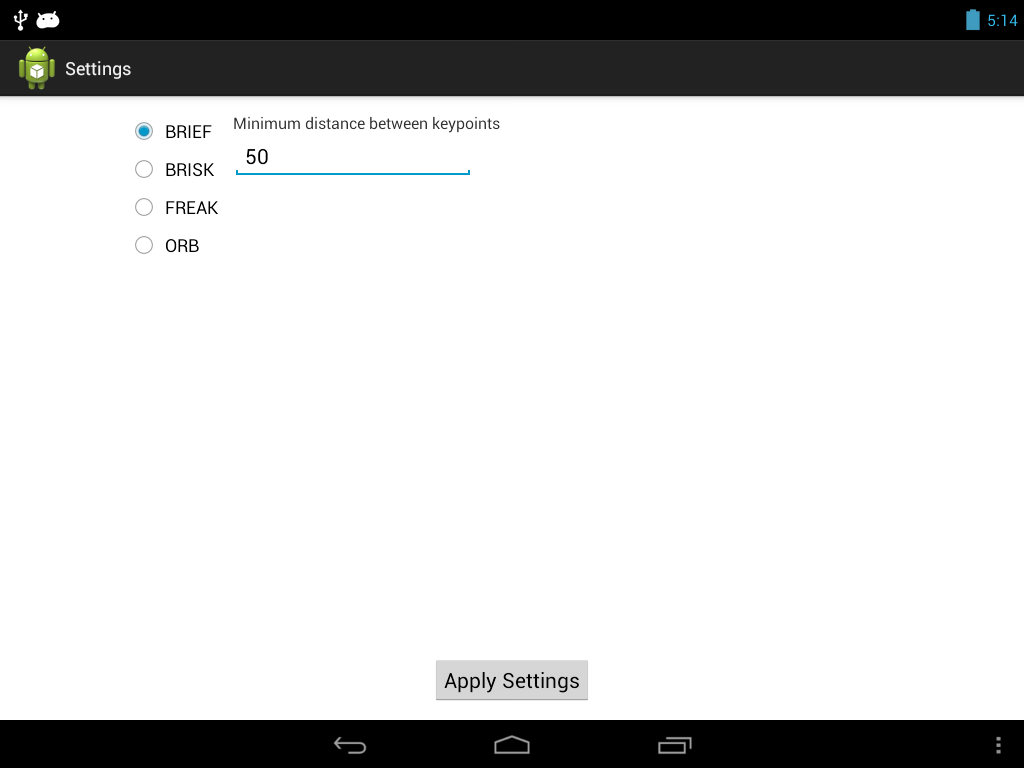
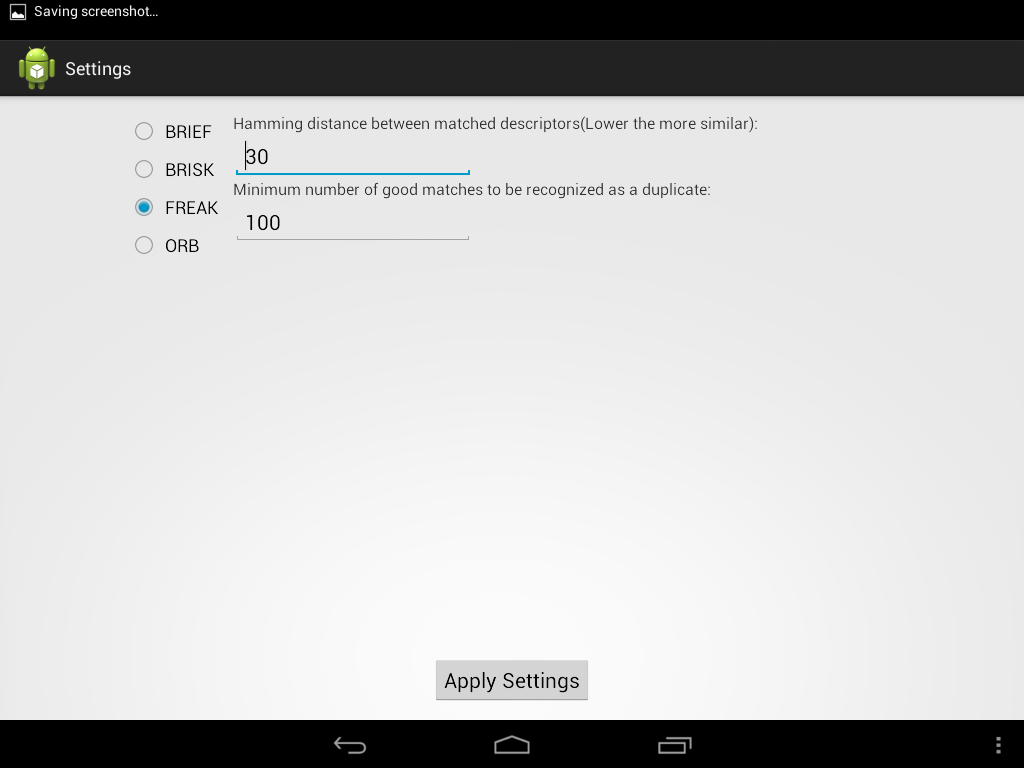
hamming distance updated
final update

diff --git a/imageComparator/src/com/torcellite/imageComparator/MainActivity.java b/imageComparator/src/com/torcellite/imageComparator/MainActivity.java
@@ -14,8 +14,10 @@ import org.opencv.android.LoaderCallbackInterface;
 import org.opencv.android.OpenCVLoader;
 import org.opencv.android.Utils;
 import org.opencv.core.Mat;
+import org.opencv.core.MatOfByte;
 import org.opencv.core.MatOfDMatch;
 import org.opencv.core.MatOfKeyPoint;
+import org.opencv.core.Scalar;
 import org.opencv.features2d.DMatch;
 import org.opencv.features2d.DescriptorExtractor;
 import org.opencv.features2d.DescriptorMatcher;
@@ -48,21 +50,22 @@ import android.widget.Toast;
 
 public class MainActivity extends Activity {
 	private static final String TAG = "OCVSample::Activity";
-	Bitmap bmp, yourSelectedImage, bmpimg1, bmpimg2;
-	ImageView iv1, iv2;
-	TextView tv;
-	String path1, path2;
-	String text, selectedPath;
-	Button start;
-	int imgNo = 0;
-	Uri selectedImage;
-	InputStream imageStream;
-	long startTime, endTime;
+	private static Bitmap bmp, yourSelectedImage, bmpimg1, bmpimg2;
+	private static ImageView iv1, iv2;
+	private static TextView tv;
+	private static String path1, path2;
+	private static String text;
+	private static Button start;
+	private static int imgNo = 0;
+	private static Uri selectedImage;
+	private static InputStream imageStream;
+	private static long startTime, endTime;
 	private static final int SELECT_PHOTO = 100;
 
-	private int descriptor = DescriptorExtractor.ORB;
-	String descriptorType;
-	private int min_dist = 500;
+	private static int descriptor = DescriptorExtractor.ORB;
+	private static String descriptorType;
+	private static int min_dist = 80;
+	private static int min_matches = 100;
 
 	public MainActivity() {
 		Log.i(TAG, "Instantiated new " + this.getClass());
@@ -111,6 +114,7 @@ public class MainActivity extends Activity {
 			Intent call = new Intent(MainActivity.this, Settings.class);
 			call.putExtra("descriptor", descriptor);
 			call.putExtra("min_dist", min_dist);
+			call.putExtra("min_matches", min_matches);
 			call.addFlags(Intent.FLAG_ACTIVITY_REORDER_TO_FRONT);
 			call.addFlags(Intent.FLAG_ACTIVITY_SINGLE_TOP);
 			startActivity(call);
@@ -133,7 +137,7 @@ public class MainActivity extends Activity {
 		else if(descriptor == DescriptorExtractor.SURF)
 			descriptorType = "SURF";
 		System.out.println(descriptorType);
-		tv.setText("Select the two images to be compared.\n"+"DescriptorExtractor:"+descriptorType+" Minimum distance between keypoints:"+min_dist);
+		tv.setText("Select the two images to be compared.\n"+"DescriptorExtractor:"+descriptorType+"\nHamming distance between descriptors:"+min_dist+"\nMinimum number of good matches:"+min_matches);
 		iv1.setOnClickListener(new View.OnClickListener() {
 
 			@Override
@@ -163,7 +167,7 @@ public class MainActivity extends Activity {
 			public void onClick(View arg0) {
 				// TODO Auto-generated method stub
 				if (bmpimg1 != null && bmpimg2 != null) {
-					new asyncTask().execute();
+					new asyncTask(MainActivity.this).execute();
 					startTime = System.currentTimeMillis();
 					System.out.println(descriptor + " " + min_dist);
 				} else
@@ -179,6 +183,7 @@ public class MainActivity extends Activity {
 		super.onNewIntent(newIntent);
 		min_dist = newIntent.getExtras().getInt("min_dist");
 		descriptor = newIntent.getExtras().getInt("descriptor");
+		min_matches = newIntent.getExtras().getInt("min_matches");
 		run();
 	}
 
@@ -226,23 +231,25 @@ public class MainActivity extends Activity {
 				mLoaderCallback);
 	}
 
-	public class asyncTask extends AsyncTask<Void, Void, Void> {
-		Mat img1, img2, descriptors, dupDescriptors;
-		FeatureDetector detector;
-		DescriptorExtractor DescExtractor;
-		DescriptorMatcher matcher;
-		MatOfKeyPoint keypoints, dupKeypoints;
-		MatOfDMatch matches, matches_final_mat;
-		TextView tv;
-		ProgressDialog pd;
-		boolean isDuplicate = false;
-
-		// int m = 0, d = 0, dd = 0, pos = 0;
-		// String M, D, DD;
+	public static class asyncTask extends AsyncTask<Void, Void, Void> {
+		private static Mat img1, img2, descriptors, dupDescriptors;
+		private static FeatureDetector detector;
+		private static DescriptorExtractor DescExtractor;
+		private static DescriptorMatcher matcher;
+		private static MatOfKeyPoint keypoints, dupKeypoints;
+		private static MatOfDMatch matches, matches_final_mat;
+		private static ProgressDialog pd;
+		private static boolean isDuplicate = false;
+		private MainActivity asyncTaskContext=null;
+		private static Scalar RED = new Scalar(255,0,0);
+		private static Scalar GREEN = new Scalar(0,255,0);
+		public asyncTask(MainActivity context)
+		{
+			asyncTaskContext=context;
+		}
 		@Override
 		protected void onPreExecute() {
-			tv = (TextView) MainActivity.this.findViewById(R.id.tv);
-			pd = new ProgressDialog(MainActivity.this);
+			pd = new ProgressDialog(asyncTaskContext);
 			pd.setIndeterminate(true);
 			pd.setCancelable(true);
 			pd.setCanceledOnTouchOutside(false);
@@ -261,15 +268,17 @@ public class MainActivity extends Activity {
 		protected void onPostExecute(Void result) {
 			try {
 				Mat img3 = new Mat();
+				MatOfByte drawnMatches = new MatOfByte();
 				Features2d.drawMatches(img1, keypoints, img2, dupKeypoints,
-						matches_final_mat, img3);
+						matches_final_mat, img3, GREEN, RED,  drawnMatches, Features2d.NOT_DRAW_SINGLE_POINTS);
 				bmp = Bitmap.createBitmap(img3.cols(), img3.rows(),
 						Bitmap.Config.ARGB_8888);
 				Imgproc.cvtColor(img3, img3, Imgproc.COLOR_BGR2RGB);
 				Utils.matToBitmap(img3, bmp);
 				List<DMatch> finalMatchesList = matches_final_mat.toList();
+				final int matchesFound=finalMatchesList.size();
 				endTime = System.currentTimeMillis();
-				if (finalMatchesList.size() > min_dist)// dev discretion for
+				if (finalMatchesList.size() > min_matches)// dev discretion for
 														// number of matches to
 														// be found for an image
 														// to be judged as
@@ -287,10 +296,10 @@ public class MainActivity extends Activity {
 				}
 				pd.dismiss();
 				final AlertDialog.Builder alertDialog = new AlertDialog.Builder(
-						MainActivity.this);
+						asyncTaskContext);
 				alertDialog.setTitle("Result");
 				alertDialog.setCancelable(false);
-				LayoutInflater factory = LayoutInflater.from(MainActivity.this);
+				LayoutInflater factory = LayoutInflater.from(asyncTaskContext);
 				final View view = factory.inflate(R.layout.image_view, null);
 				ImageView matchedImages = (ImageView) view
 						.findViewById(R.id.finalImage);
@@ -318,8 +327,9 @@ public class MainActivity extends Activity {
 									bw = new BufferedWriter(fw);
 									bw.write("Algorithm used: "
 											+ descriptorType
-											+ "\nMinimum distance between keypoints: "
-											+ min_dist + "\n" + path1
+											+ "\nHamming distance: "
+											+ min_dist + "\nMinimum good matches: "+min_matches
+											+"\nMatches found: "+matchesFound+"\nTime elapsed: "+(endTime-startTime)+"seconds\n"+ path1
 											+ " was compared to " + path2
 											+ "\n" + "Is actual duplicate: "
 											+ shouldBeDuplicate.isChecked()
@@ -327,7 +337,7 @@ public class MainActivity extends Activity {
 											+ isDuplicate + "\n");
 									bw.close();
 									Toast.makeText(
-											MainActivity.this,
+											asyncTaskContext,
 											"Logs updated.\nLog location: "
 													+ Environment
 															.getExternalStorageDirectory()
@@ -363,7 +373,7 @@ public class MainActivity extends Activity {
 												+ isDuplicate + "\n");
 										bw.close();
 										Toast.makeText(
-												MainActivity.this,
+												asyncTaskContext,
 												"Logs updated.\nLog location: "
 														+ Environment
 																.getExternalStorageDirectory()
@@ -381,7 +391,7 @@ public class MainActivity extends Activity {
 				alertDialog.show();
 			} catch (Exception e) {
 				e.printStackTrace();
-				Toast.makeText(MainActivity.this, e.toString(),
+				Toast.makeText(asyncTaskContext, e.toString(),
 						Toast.LENGTH_LONG).show();
 			}
 		}
@@ -420,11 +430,10 @@ public class MainActivity extends Activity {
 				matcher.match(descriptors, dupDescriptors, matches);
 				Log.d("LOG!", "Matches Size " + matches.size());
 				// New method of finding best matches
-				int DIST_LIMIT = 30;// minimum
 				List<DMatch> matchesList = matches.toList();
 				List<DMatch> matches_final = new ArrayList<DMatch>();
 				for (int i = 0; i < matchesList.size(); i++) {
-					if (matchesList.get(i).distance <= DIST_LIMIT) {
+					if (matchesList.get(i).distance <= min_dist) {
 						matches_final.add(matches.toList().get(i));
 					}
 				}

diff --git a/imageComparator/src/com/torcellite/imageComparator/Settings.java b/imageComparator/src/com/torcellite/imageComparator/Settings.java
@@ -13,11 +13,12 @@ import android.widget.RadioGroup;
 
 public class Settings extends Activity {
 
-	RadioGroup descTypes;
-	RadioButton brief, brisk, freak, orb, sift, surf;
-	Button apply;
-	EditText num;
-
+	@SuppressWarnings("unused")
+	private static RadioGroup descTypes;
+	private static RadioButton brief, brisk, freak, orb;
+	private static Button apply;
+	private static EditText DIST_LIMIT, MIN_MATCHES;
+	private static int descriptor, min_dist, min_matches;
 	@Override
 	protected void onCreate(Bundle savedInstanceState) {
 		super.onCreate(savedInstanceState);
@@ -28,14 +29,16 @@ public class Settings extends Activity {
 		freak = (RadioButton) findViewById(R.id.radio2);
 		orb = (RadioButton) findViewById(R.id.radio3);
 		apply = (Button) findViewById(R.id.button1);
-		num = (EditText) findViewById(R.id.editText1);
-		num.setText("500");
+		DIST_LIMIT = (EditText) findViewById(R.id.editText1);
+		MIN_MATCHES = (EditText) findViewById(R.id.editText2);
+		MIN_MATCHES.setText("100");
+		DIST_LIMIT.setText("80");
 		apply.setOnClickListener(new View.OnClickListener() {
 
 			@Override
 			public void onClick(View v) {
 				// TODO Auto-generated method stub
-				int descriptor = 0, min_dist = 500;
+				int descriptor = 0, min_dist = 80, min_matches=100;
 				if (brief.isChecked())
 					descriptor = DescriptorExtractor.BRIEF;
 				else if (brisk.isChecked())
@@ -45,7 +48,7 @@ public class Settings extends Activity {
 				else if (orb.isChecked())
 					descriptor = DescriptorExtractor.ORB;
 				try {
-					min_dist = Integer.parseInt(num.getText().toString());
+					min_dist = Integer.parseInt(DIST_LIMIT.getText().toString());
 				} catch (Exception e) {
 					e.printStackTrace();
 					min_dist = 500;
@@ -55,6 +58,7 @@ public class Settings extends Activity {
 				call.addFlags(Intent.FLAG_ACTIVITY_SINGLE_TOP);
 				call.putExtra("descriptor", descriptor);
 				call.putExtra("min_dist", min_dist);
+				call.putExtra("min_matches", min_matches);
 				startActivity(call);
 			}
 		});
@@ -63,9 +67,10 @@ public class Settings extends Activity {
 	@Override
 	protected void onNewIntent(Intent newIntent) {
 		super.onNewIntent(newIntent);
-		int descriptor = newIntent.getExtras().getInt("descriptor");
-		int min_dist = newIntent.getExtras().getInt("min_dist");
-		num.setText(min_dist + "");
+		descriptor = newIntent.getExtras().getInt("descriptor");
+		min_dist = newIntent.getExtras().getInt("min_dist");
+		min_matches = newIntent.getExtras().getInt("min_matches");
+		DIST_LIMIT.setText(min_dist + "");
 		switch (descriptor) {
 		case 3:
 			orb.setChecked(true);
@@ -85,7 +90,6 @@ public class Settings extends Activity {
 			@Override
 			public void onClick(View v) {
 				// TODO Auto-generated method stub
-				int descriptor = 0, min_dist = 500;
 				if (brief.isChecked())
 					descriptor = DescriptorExtractor.BRIEF;
 				else if (brisk.isChecked())
@@ -95,15 +99,18 @@ public class Settings extends Activity {
 				else if (orb.isChecked())
 					descriptor = DescriptorExtractor.ORB;
 				try {
-					min_dist = Integer.parseInt(num.getText().toString());
+					min_dist = Integer.parseInt(DIST_LIMIT.getText().toString());
+					min_matches = Integer.parseInt(MIN_MATCHES.getText().toString());
 				} catch (Exception e) {
 					e.printStackTrace();
-					min_dist = 500;
+					min_dist = 80;
+					min_matches=100;
 				}
 				Intent call = new Intent(Settings.this, MainActivity.class);
 				call.addFlags(Intent.FLAG_ACTIVITY_REORDER_TO_FRONT);
 				call.putExtra("descriptor", descriptor);
 				call.putExtra("min_dist", min_dist);
+				call.putExtra("min_matches", min_matches);
 				startActivity(call);
 			}
 		});

diff --git a/imageComparator/gen/com/torcellite/imageComparator/R.java b/imageComparator/gen/com/torcellite/imageComparator/R.java
@@ -55,15 +55,16 @@ containing a value of this type.
         public static final int any=0x7f040000;
         public static final int back=0x7f040001;
         public static final int button1=0x7f040005;
-        public static final int checkBox=0x7f040011;
+        public static final int checkBox=0x7f040013;
         public static final int editText1=0x7f04000e;
+        public static final int editText2=0x7f040010;
         public static final int emptyLayout=0x7f040006;
-        public static final int finalImage=0x7f040012;
+        public static final int finalImage=0x7f040014;
         public static final int front=0x7f040002;
         public static final int img1=0x7f040004;
         public static final int img2=0x7f040007;
-        public static final int menu_settings=0x7f040013;
-        public static final int message=0x7f040010;
+        public static final int menu_settings=0x7f040015;
+        public static final int message=0x7f040012;
         public static final int radio0=0x7f04000a;
         public static final int radio1=0x7f04000b;
         public static final int radio2=0x7f04000c;
@@ -71,6 +72,7 @@ containing a value of this type.
         public static final int radioGroup1=0x7f040009;
         public static final int scrollView1=0x7f040008;
         public static final int textView1=0x7f04000f;
+        public static final int textView2=0x7f040011;
         public static final int tv=0x7f040003;
     }
     public static final class layout {
@@ -89,6 +91,7 @@ containing a value of this type.
         public static final int freak=0x7f060006;
         public static final int menu_settings=0x7f060001;
         public static final int min_dist=0x7f06000c;
+        public static final int min_dup=0x7f06000d;
         public static final int orb=0x7f060005;
         public static final int select=0x7f060002;
         public static final int sift=0x7f06000a;

diff --git a/README.md b/README.md
@@ -2,6 +2,9 @@
 
 Image comparator which computes similarity between images to detect duplicates on the Android platform. It uses the OpenCV manager and different algorithms to compare images and help you find an optimized method to detect duplicate images for your application.
 
+# Quick Use
+For finding images which are EXACTLY the same except for compressiong and format, use FREAK with a hamming distance of 30 and a minimum number of good matches of 100.
+
 Image comparison is optimized with the following parameters:
 1. Minimum distance between keypoints described to be accepted as duplicates. The lower the minimum distance matches, the higher the chances of the images being duplicate.
 2. Different algorithms for varying speed and accuracy. ORB, BRIEF, BRISK and FREAK. Only [PYRAMID_FAST](http://computer-vision-talks.com/2011/01/comparison-of-the-opencvs-feature-detection-algorithms-2/) FeatureDetector is being used as of now to increase speed.
@@ -22,7 +25,7 @@ It is used in my application [WhatsAppDuplicateMediaRemover] (http://play.google
 ![Screenshot](http://github.com/torcellite/imageComparator/raw/master/screenshot.png)
 ![Screenshot](http://github.com/torcellite/imageComparator/raw/master/screenshot1.png)
 ![Screenshot](http://github.com/torcellite/imageComparator/raw/master/screenshot2.png)
-
+![Screenshot](http://github.com/torcellite/imageComparator/raw/master/screenshot3.png)
 # License
 
 You have all rights to use this project, but please feel obligated to give due credit.
